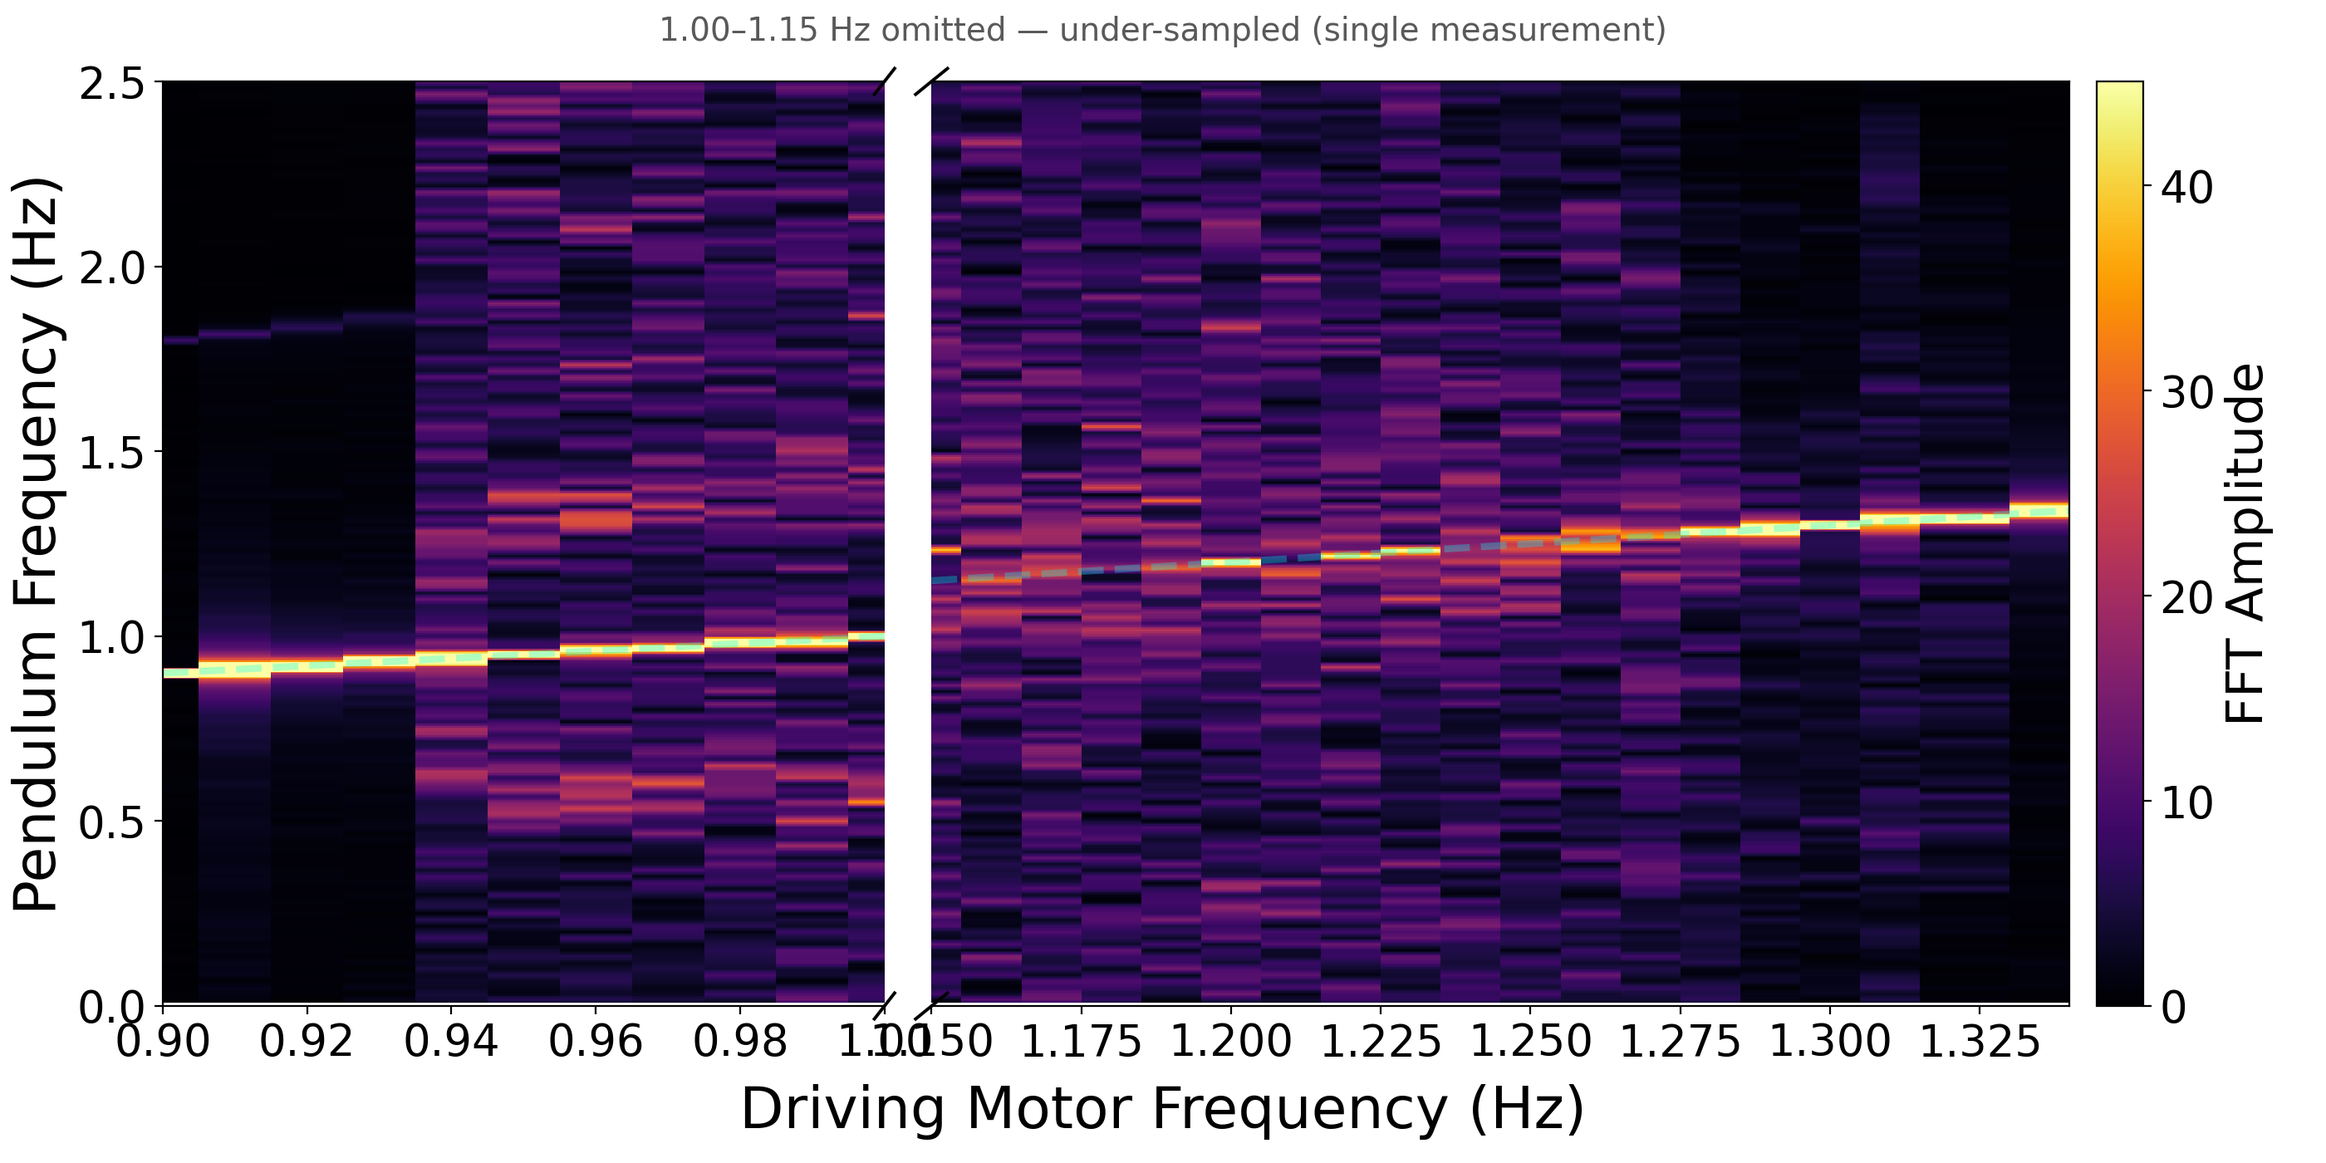
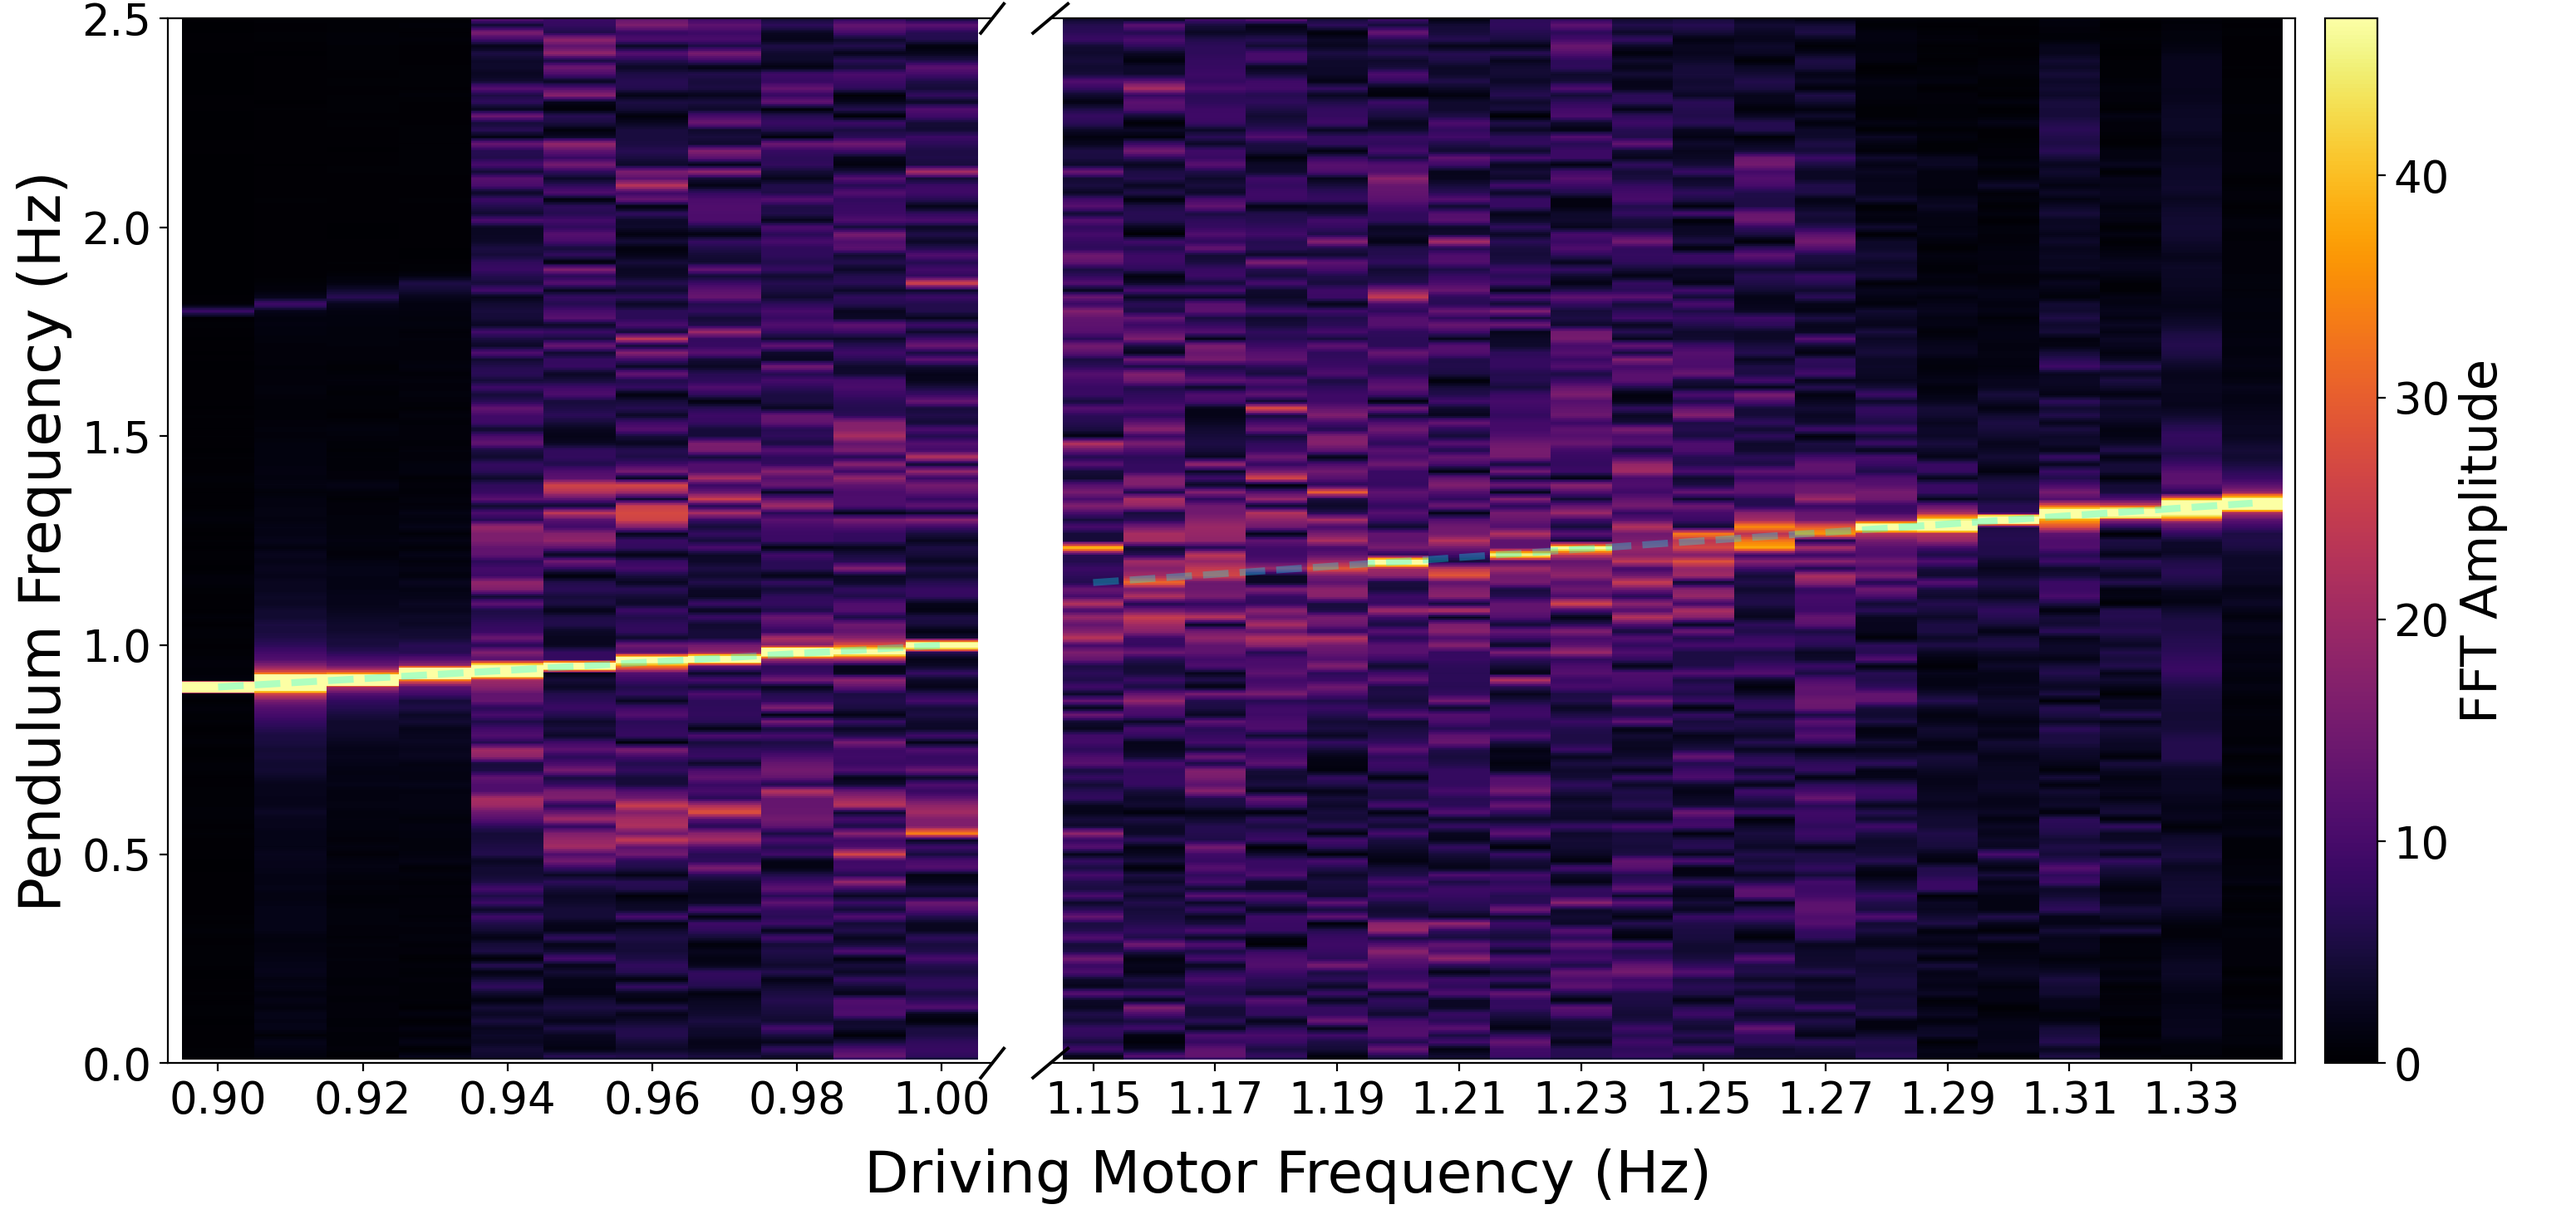
report: polish broken-axis waterfall — discrete real-freq ticks, no collision
Broken-axis figure now uses a discrete (categorical) x-axis: one equal-width
column per measured clip, ticked at the real measured frequencies. Half-column
margins + break marks give the 1.00 / 1.15 boundary ticks breathing room (they
were overlapping). Drop the top caption. Loader now also catches retake folders
(1.33Hz_1/_2) so 1.33 is included.

diff --git a/experiments/week6-pendulum-motor-driven/report/fft_waterfall_pres.py b/experiments/week6-pendulum-motor-driven/report/fft_waterfall_pres.py
@@ -42,12 +42,18 @@ FS_LABEL, FS_TICK, FS_CBAR = 25, 19, 22
 def load_columns():
     uf = np.linspace(0.01, MAX_FFT_FREQ, N_FFT_BINS)
     rows = []
-    for d in sorted(glob.glob(os.path.join(BASE, f"{VOLT}_*Hz"))):
+    seen = set()
+    # "*Hz*" also catches retake folders like 3.2V_1.33Hz_1 / _2; dedupe by freq.
+    for d in sorted(glob.glob(os.path.join(BASE, f"{VOLT}_*Hz*"))):
         m = re.search(r"_(\d+(?:\.\d+)?)Hz", os.path.basename(d))
         if not m:
             continue
-        f = float(m.group(1))
-        df = pd.read_csv(os.path.join(d, "tracking.csv")).dropna(subset=["time_s", "theta2_deg"])
+        f = round(float(m.group(1)), 2)
+        csv = os.path.join(d, "tracking.csv")
+        if f in seen or not os.path.exists(csv):
+            continue
+        seen.add(f)
+        df = pd.read_csv(csv).dropna(subset=["time_s", "theta2_deg"])
         t = df["time_s"].values
         th = df["theta2_deg"].values
         cut = t.max() - min(TIME_WINDOW, t.max() - t.min())
@@ -113,32 +119,53 @@ def direction1(uf, freqs, cols, vmax, out_png):
     print("Saved ->", out_png)
 
 
-def direction2(uf, freqs, cols, vmax, out_png):
+def direction2(uf, freqs, cols, vmax, out_png, tick_step=2):
+    """Broken x-axis with DISCRETE, equal-width columns (one per measured clip),
+    ticked at the real measured frequencies. The under-sampled middle
+    (1.00–1.15 Hz, only 1.09) is dropped."""
     mL = freqs <= 1.005
     mR = freqs >= 1.145
-    fig = plt.figure(figsize=(14, 7))
-    gs = fig.add_gridspec(1, 2, width_ratios=[(1.00 - 0.90), (freqs.max() - 1.15)], wspace=0.045)
+    fL, cL = freqs[mL], cols[:, mL]
+    fR, cR = freqs[mR], cols[:, mR]
+    iL, iR = np.arange(len(fL)), np.arange(len(fR))
+
+    fig = plt.figure(figsize=(15.5, 7.4))
+    gs = fig.add_gridspec(1, 2, width_ratios=[len(fL), len(fR)], wspace=0.05)
     axL = fig.add_subplot(gs[0]); axR = fig.add_subplot(gs[1], sharey=axL)
-    axL.pcolormesh(freqs[mL], uf, cols[:, mL], shading="nearest", cmap="inferno", vmin=0, vmax=vmax)
-    pc = axR.pcolormesh(freqs[mR], uf, cols[:, mR], shading="nearest", cmap="inferno", vmin=0, vmax=vmax)
-    axL.plot([0.90, 1.00], [0.90, 1.00], color="cyan", ls="--", lw=3, alpha=0.30)
-    axR.plot([1.15, freqs.max()], [1.15, freqs.max()], color="cyan", ls="--", lw=3, alpha=0.30)
-    axL.set_xlim(0.90, 1.00); axR.set_xlim(1.15, freqs.max()); axL.set_ylim(0, MAX_FFT_FREQ)
+    axL.pcolormesh(iL, uf, cL, shading="nearest", cmap="inferno", vmin=0, vmax=vmax)
+    pc = axR.pcolormesh(iR, uf, cR, shading="nearest", cmap="inferno", vmin=0, vmax=vmax)
+    # resonance guide (pendulum freq = drive freq) on the categorical axis
+    axL.plot(iL, fL, color="cyan", ls="--", lw=3, alpha=0.30)
+    axR.plot(iR, fR, color="cyan", ls="--", lw=3, alpha=0.30)
+
+    M = 0.7                                   # half-column margin -> break breathing room
+    axL.set_xlim(-M, len(fL) - 1 + M)
+    axR.set_xlim(-M, len(fR) - 1 + M)
+    axL.set_ylim(0, MAX_FFT_FREQ)
+
+    def discrete_ticks(ax, idx, fvals):
+        sel = list(range(0, len(idx), tick_step))
+        ax.set_xticks(idx[sel])
+        ax.set_xticklabels([f"{fvals[i]:.2f}" for i in sel])
+    discrete_ticks(axL, iL, fL)
+    discrete_ticks(axR, iR, fR)
+
     axL.spines["right"].set_visible(False); axR.spines["left"].set_visible(False)
     axR.tick_params(left=False); plt.setp(axR.get_yticklabels(), visible=False)
-    axL.tick_params(labelsize=FS_TICK); axR.tick_params(labelsize=FS_TICK)
+    axL.tick_params(axis="x", labelsize=FS_TICK); axL.tick_params(axis="y", labelsize=FS_TICK)
+    axR.tick_params(axis="x", labelsize=FS_TICK)
+
     dd = 0.014
     for ax, xx in [(axL, 1), (axR, 0)]:
         kw = dict(transform=ax.transAxes, color="k", clip_on=False, lw=1.4)
         ax.plot((xx - dd, xx + dd), (-dd, dd), **kw)
         ax.plot((xx - dd, xx + dd), (1 - dd, 1 + dd), **kw)
+
     axL.set_ylabel("Pendulum Frequency (Hz)", fontsize=FS_LABEL)
     fig.text(0.5, 0.03, "Driving Motor Frequency (Hz)", ha="center", fontsize=FS_LABEL)
-    fig.text(0.5, 0.965, "1.00–1.15 Hz omitted — under-sampled (single measurement)",
-             ha="center", fontsize=14, color="0.35")
     cbar = fig.colorbar(pc, ax=axR, pad=0.02)
     cbar.set_label("FFT Amplitude", fontsize=FS_CBAR); cbar.ax.tick_params(labelsize=FS_TICK)
-    fig.subplots_adjust(bottom=0.135, left=0.07, right=0.99, top=0.93)
+    fig.subplots_adjust(bottom=0.135, left=0.065, right=0.99, top=0.985)
     fig.savefig(out_png, dpi=200); plt.close(fig)
     print("Saved ->", out_png)
 
